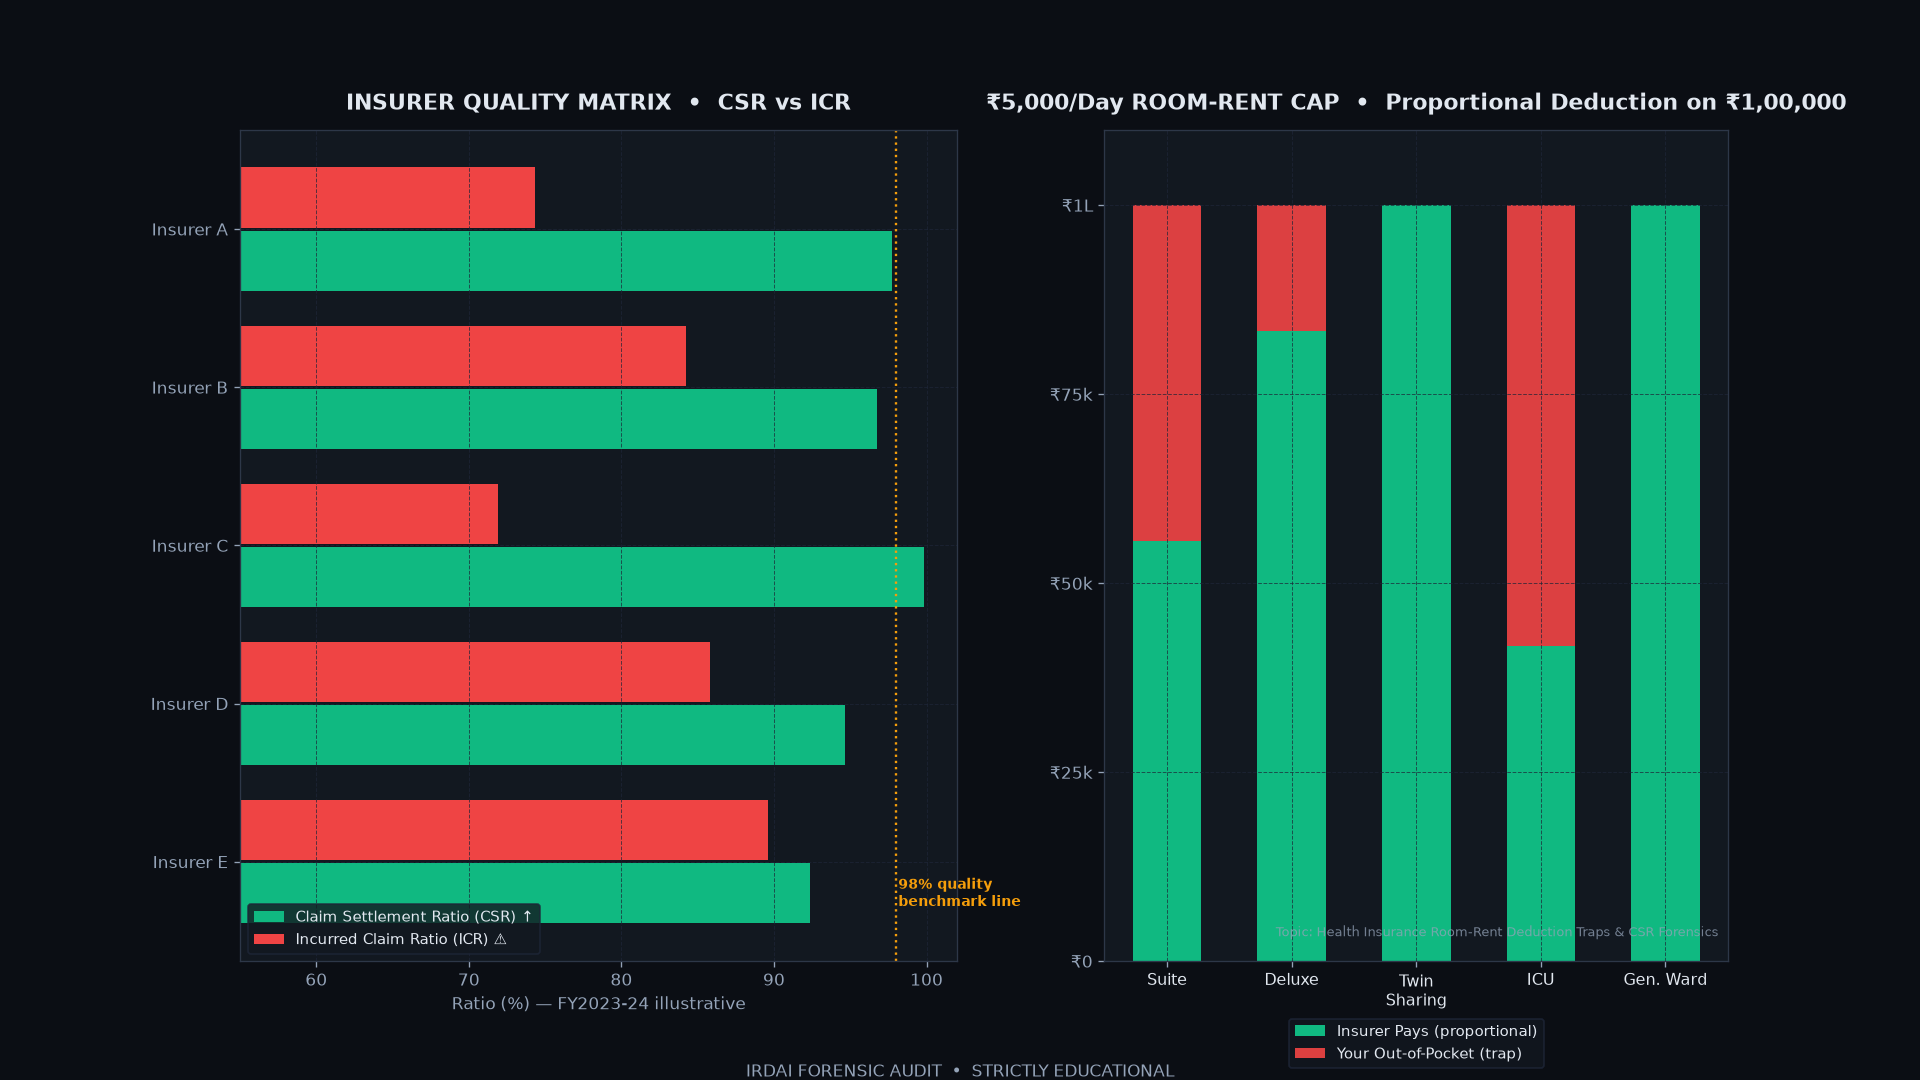
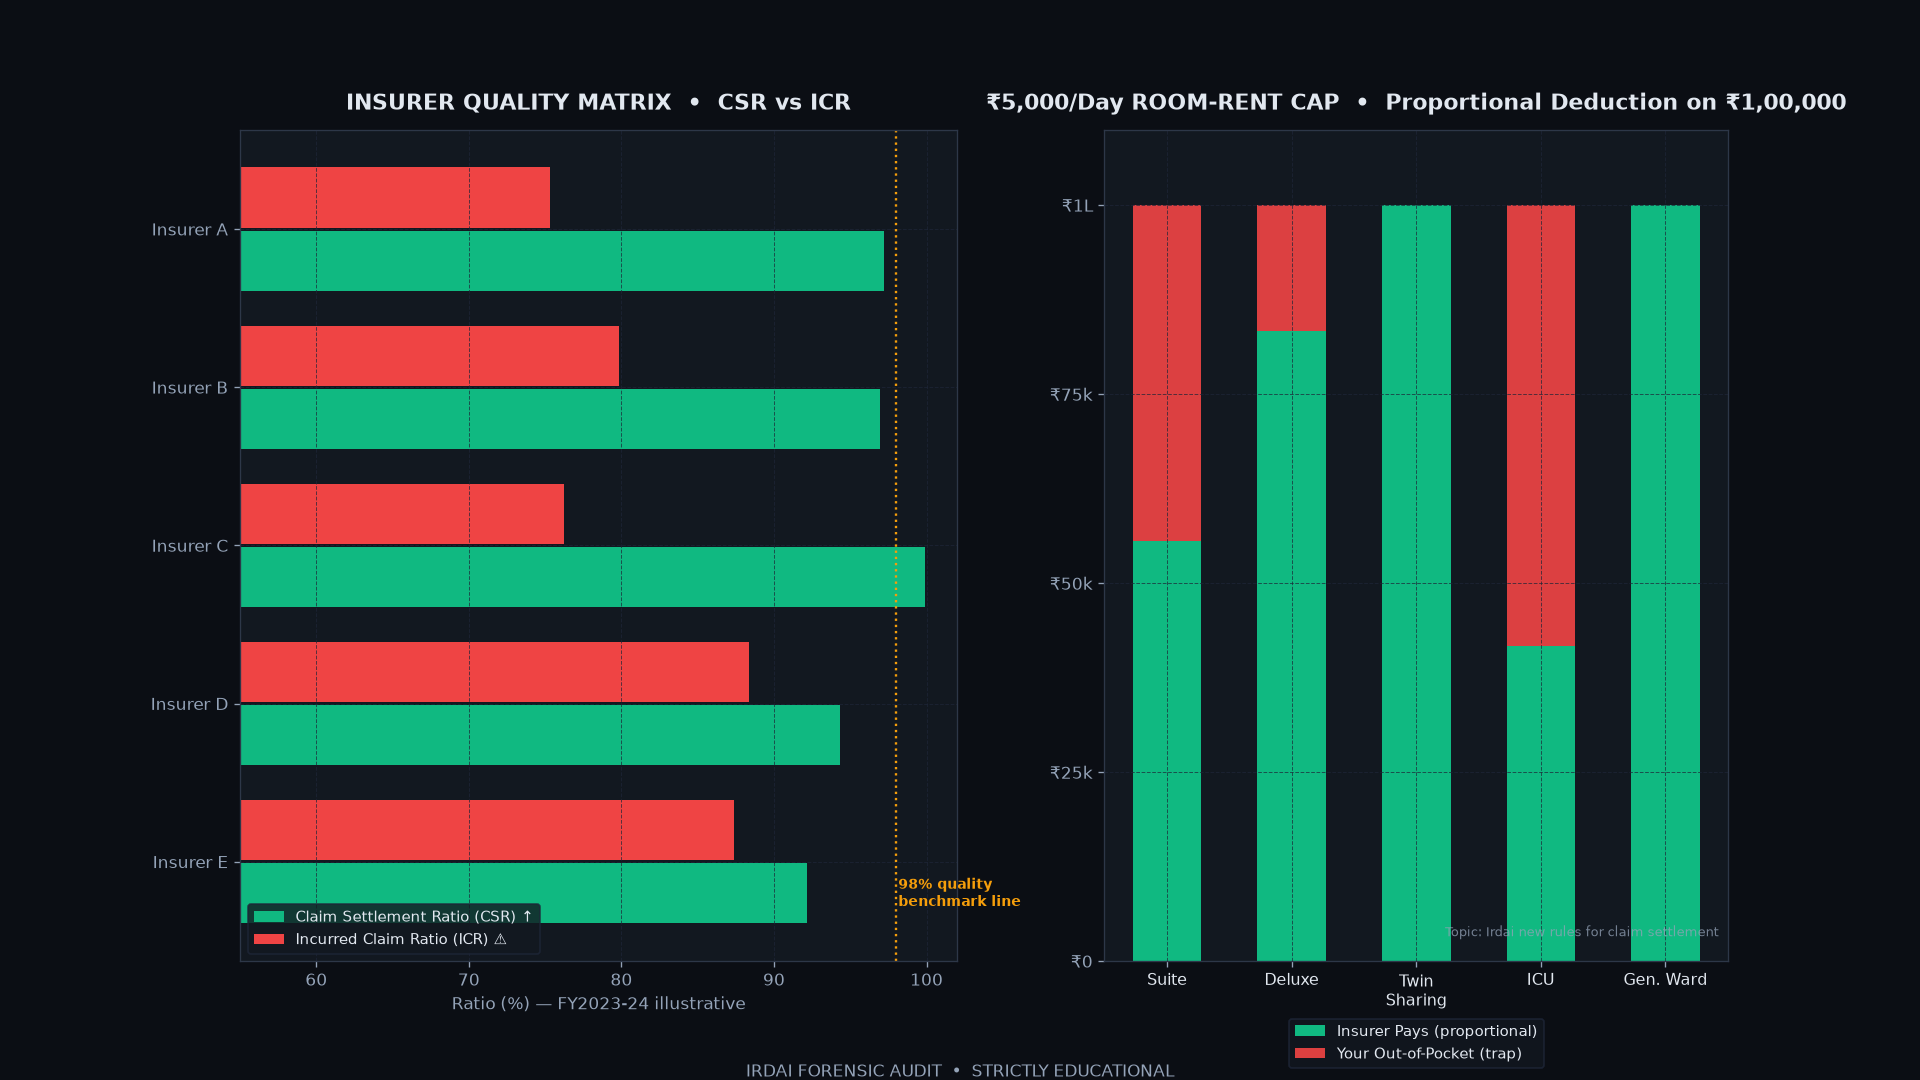
fix(orchestrator): use gemini-flash-latest, add auto-discovery and pre-bootstrap duplicate guard

diff --git a/cloud_orchestrator.py b/cloud_orchestrator.py
@@ -32,7 +32,38 @@ BASE_DIR = Path(__file__).parent
 KAGGLE_STAGE_DIR = BASE_DIR / "kaggle_stage"
 KAGGLE_STAGE_DIR.mkdir(parents=True, exist_ok=True)
 
+# Auto-discover Kaggle credentials if not in environment
 KAGGLE_USERNAME = os.getenv("KAGGLE_USERNAME", "")
+if not KAGGLE_USERNAME or not os.getenv("KAGGLE_KEY"):
+    kaggle_json_path = Path.home() / ".kaggle" / "kaggle.json"
+    if kaggle_json_path.exists():
+        try:
+            _kd = json.loads(kaggle_json_path.read_text(encoding="utf-8"))
+            if not KAGGLE_USERNAME:
+                KAGGLE_USERNAME = _kd.get("username", "")
+                os.environ["KAGGLE_USERNAME"] = KAGGLE_USERNAME
+            if not os.getenv("KAGGLE_KEY"):
+                os.environ["KAGGLE_KEY"] = _kd.get("key", "")
+        except Exception:
+            pass
+
+# Auto-discover config.toml secrets if not in environment
+try:
+    import tomllib
+    _cfg_path = BASE_DIR / "config.toml"
+    if _cfg_path.exists():
+        _cfg = tomllib.load(open(_cfg_path, "rb")).get("app", {})
+        if not os.getenv("GEMINI_API_KEY") and _cfg.get("gemini_api_key"):
+            os.environ["GEMINI_API_KEY"] = _cfg["gemini_api_key"]
+        if not os.getenv("TELEGRAM_BOT_TOKEN") and _cfg.get("telegram_bot_token"):
+            os.environ["TELEGRAM_BOT_TOKEN"] = _cfg["telegram_bot_token"]
+        if not os.getenv("TELEGRAM_CHAT_ID") and _cfg.get("telegram_chat_id"):
+            os.environ["TELEGRAM_CHAT_ID"] = str(_cfg["telegram_chat_id"])
+        if not os.getenv("GEMINI_MODEL_NAME") and _cfg.get("gemini_model_name"):
+            os.environ["GEMINI_MODEL_NAME"] = _cfg["gemini_model_name"]
+except Exception:
+    pass
+
 DATASET_SLUG = "flipzon-daily-payload"
 KERNEL_SLUG = "flipzon-gpu-video-renderer"
 
@@ -424,9 +455,9 @@ def generate_master_json_via_ai_studio(topic: str, market_notes: str, chart_file
             client = genai.Client(api_key=api_key)
             schema_dict = json.loads(schema_file.read_text(encoding="utf-8")) if schema_file.exists() else {}
 
-            logger.info("🧠 Calling Google AI Studio (Gemini 2.5 Flash / Pro)...")
+            logger.info(f"🧠 Calling Google AI Studio ({os.getenv('GEMINI_MODEL_NAME', 'gemini-flash-latest')})...")
             response = client.models.generate_content(
-                model="gemini-2.5-flash",
+                model=os.getenv("GEMINI_MODEL_NAME", "gemini-flash-latest"),
                 contents=user_input,
                 config=types.GenerateContentConfig(
                     system_instruction=system_prompt,
@@ -490,7 +521,9 @@ def run_kaggle_gpu_renderer(
             m, s = divmod(int(cumulative), 60)
             timestamps.append(f"{m:02d}:{s:02d} - {seg['chapter_title']}")
             
-            dur = asyncio.run(generate_tts_audio(seg["spoken_narration"], mp3))
+            import concurrent.futures
+            with concurrent.futures.ThreadPoolExecutor(max_workers=1) as executor:
+                dur = executor.submit(asyncio.run, generate_tts_audio(seg["spoken_narration"], mp3)).result()
             render_segment_mp4(seg, mp3, dur, mp4)
             rendered_files.append(mp4)
             cumulative += dur

diff --git a/scripts/provision_yt_pool_cli.py b/scripts/provision_yt_pool_cli.py
@@ -273,9 +273,37 @@ def main() -> int:
     args = ap.parse_args()
 
     if args.bootstrap:
+        cache = json.loads(POOL_CACHE.read_text()) if POOL_CACHE.exists() else []
+        existing_ids = {s.get("client_id") for s in cache}
+
+        secret_path = TOKEN_DIR / f"client_secrets_{args.bootstrap}.json"
+        if not secret_path.exists():
+            fallbacks = sorted(ROOT.glob("client_secret*.json"))
+            secret_path = fallbacks[0] if fallbacks else None
+
+        if secret_path and secret_path.exists():
+            cid = load_client_secret_json(secret_path).get("client_id")
+            if cid and cid in existing_ids:
+                print(
+                    f"✗ REFUSED: '{secret_path.name}' uses an OAuth client ID that already exists in the pool:\n"
+                    f"  (Client ID: …{cid[-25:]})\n"
+                    "  Google Cloud enforces the 10,000 units/day quota per GCP Project (OAuth Client).\n"
+                    "  Minting a new token under the same client does NOT increase your daily quota.\n\n"
+                    "  To add Slot #2 / Slot #3 with an additional 10k units/day quota each:\n"
+                    "  1. Go to console.cloud.google.com and create a NEW project (e.g. 'the-bull-print-ta')\n"
+                    "  2. Enable 'YouTube Data API v3' in that project\n"
+                    "  3. Configure OAuth consent screen (External, add your Google account as test user)\n"
+                    "  4. Credentials → Create Credentials → OAuth client ID → Desktop application\n"
+                    "  5. Download JSON and save as: data/youtube_tokens/client_secrets_{args.bootstrap}.json\n"
+                    "  6. Then rerun: python3 scripts/provision_yt_pool_cli.py --bootstrap {args.bootstrap}\n"
+                )
+                return 2
+
         slot = bootstrap_slot(args.bootstrap)
         if slot:
-            cache = json.loads(POOL_CACHE.read_text()) if POOL_CACHE.exists() else []
+            if slot.get("client_id") in existing_ids:
+                print("✗ REFUSED: this OAuth client already exists in the pool.")
+                return 2
             cache.append(slot)
             POOL_CACHE.parent.mkdir(parents=True, exist_ok=True)
             POOL_CACHE.write_text(json.dumps(cache, indent=1))

diff --git a/app/services/compliance_gate.py b/app/services/compliance_gate.py
@@ -17,6 +17,7 @@ run (workflow fails) rather than letting non-compliant content publish.
 """
 
 import json
+import os
 import re
 from datetime import datetime, timedelta, timezone
 from pathlib import Path
@@ -28,6 +29,10 @@ BASE_DIR = Path(__file__).resolve().parent.parent.parent
 POSTS_MANIFEST = BASE_DIR / "content" / "posts.json"
 SCHEMA_PATH = BASE_DIR / "master_schema.json"
 SYSTEM_PROMPT_PATH = BASE_DIR / "master_system_prompt.txt"
+
+# Live Gemini model alias (gemini-2.5-flash 404s for new projects — 'gemini-flash-latest'
+# always resolves to the currently served GA Flash model).
+LIVE_GEMINI_MODEL = os.getenv("GEMINI_MODEL_NAME", "gemini-flash-latest")
 
 # Deterministic Regex Patterns for Illegal Financial Advisory Triggers
 _BANNED_RAW = [
@@ -168,7 +173,7 @@ class ComplianceGate:
             from google.genai import types
 
             res = client.models.generate_content(
-                model="gemini-2.5-flash",
+                model=LIVE_GEMINI_MODEL,
                 contents=audit_prompt,
                 config=types.GenerateContentConfig(response_mime_type="application/json", temperature=0.1),
             )
@@ -197,7 +202,7 @@ class ComplianceGate:
         - Keep the SEBI educational disclaimer structure intact.
         """
         res = client.models.generate_content(
-            model="gemini-2.5-flash",
+            model=LIVE_GEMINI_MODEL,
             contents=correction_prompt,
             config=types.GenerateContentConfig(
                 system_instruction=system_prompt,
